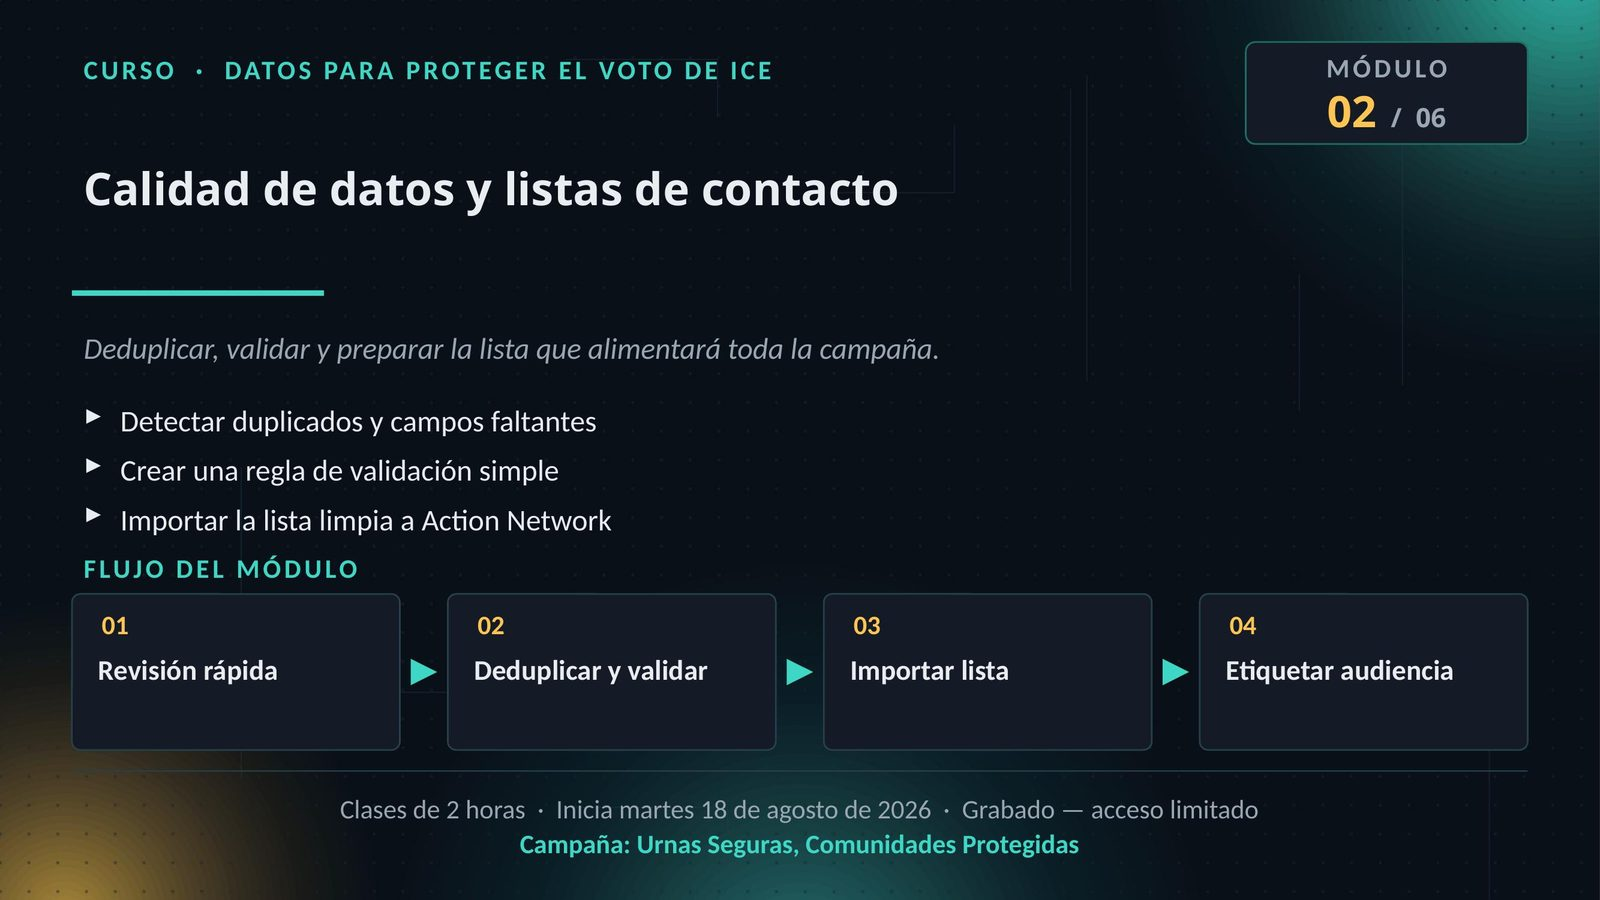
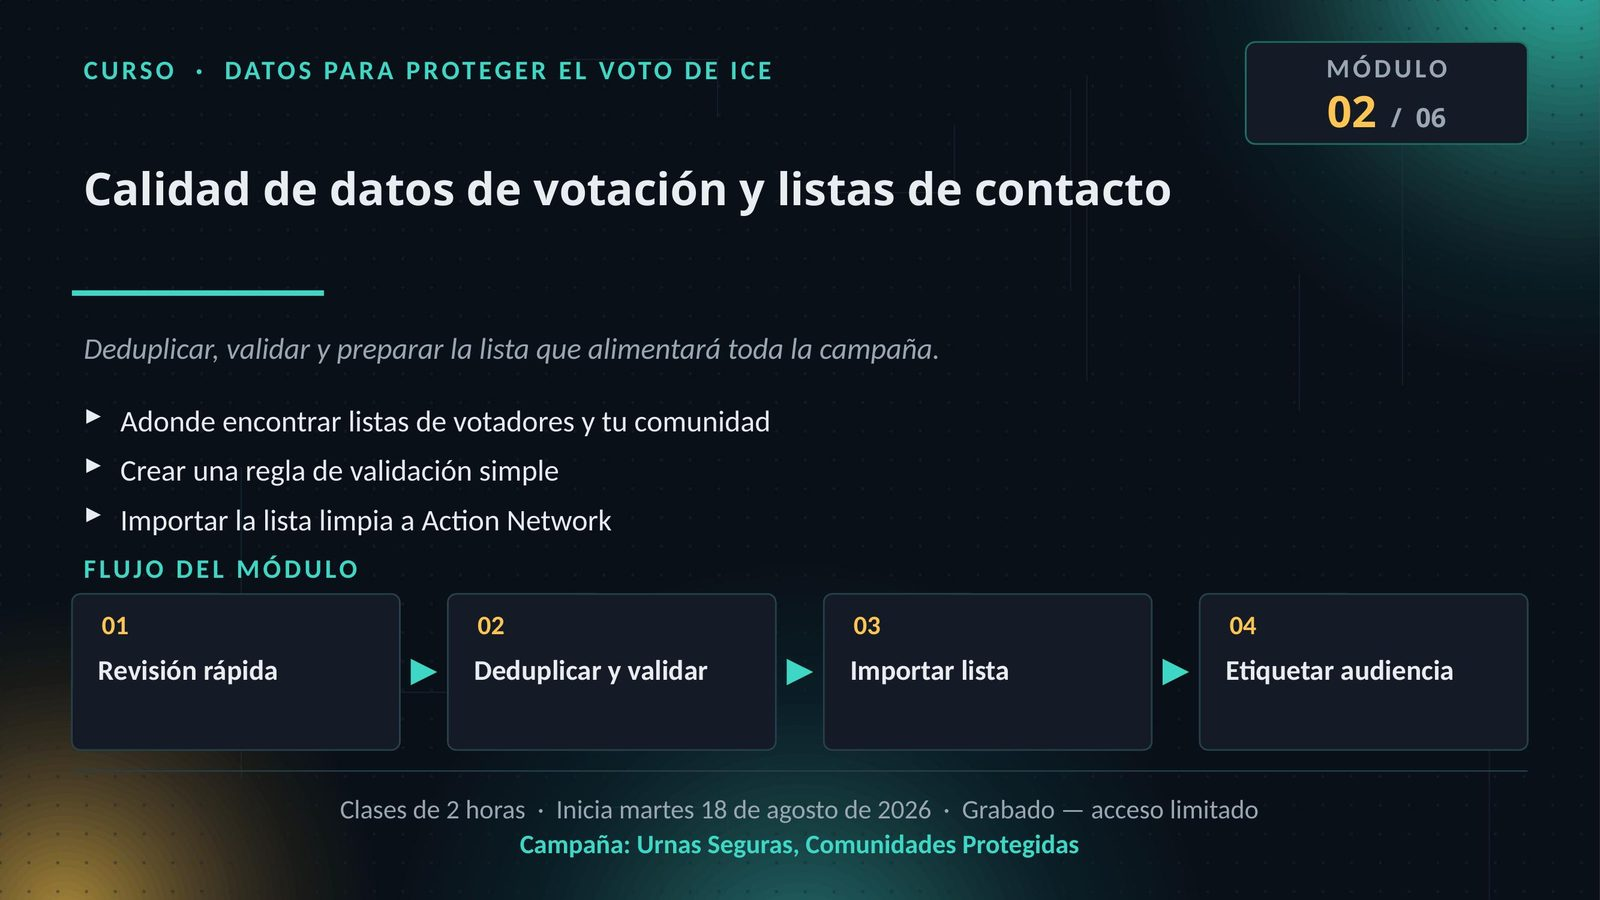
Update Módulo 2 & 3 carousel slides with intended wording
- Módulo 2 title: 'Calidad de datos de votación y listas de contacto'
- Módulo 2 bullet 1: 'Adonde encontrar listas de votadores y tu comunidad'
- Módulo 3 bullet 1: adds 'durante elecciones'
- Módulo 3 bullet 2: 'Adaptarla a tu propio campaña de activismo'
- Regenerated slide images from updated deck, updated alt text

Changed region(s): [[0.2812, 0.1867, 0.75, 0.2489], [0.0625, 0.4356, 0.4688, 0.4978]]

diff --git a/index.html b/index.html
@@ -687,7 +687,7 @@ section { padding-block: clamp(var(--space-12), 8vw, var(--space-24)); }
               <img src="assets/modulo-slides/modulo-01.jpg" alt="Módulo 1: Bienvenida y fundamentos de datos. Flujo del módulo: Bienvenida, Auditoría de datos, Alta en Action Network, Compromiso semanal." width="1600" height="900" loading="eager" decoding="async" />
             </figure>
             <figure class="carousel-slide" data-slide>
-              <img src="assets/modulo-slides/modulo-02.jpg" alt="Módulo 2: Calidad de datos y listas de contacto. Flujo del módulo: Revisión rápida, Deduplicar y validar, Importar lista, Etiquetar audiencia." width="1600" height="900" loading="lazy" decoding="async" />
+              <img src="assets/modulo-slides/modulo-02.jpg" alt="Módulo 2: Calidad de datos de votación y listas de contacto. Flujo del módulo: Revisión rápida, Deduplicar y validar, Importar lista, Etiquetar audiencia." width="1600" height="900" loading="lazy" decoding="async" />
             </figure>
             <figure class="carousel-slide" data-slide>
               <img src="assets/modulo-slides/modulo-03.jpg" alt="Módulo 3: Hojas de cálculo bilingües para el seguimiento. Flujo del módulo: Ver ejemplos reales, Construir plantilla, Adaptar a tu equipo, Envío de prueba." width="1600" height="900" loading="lazy" decoding="async" />
